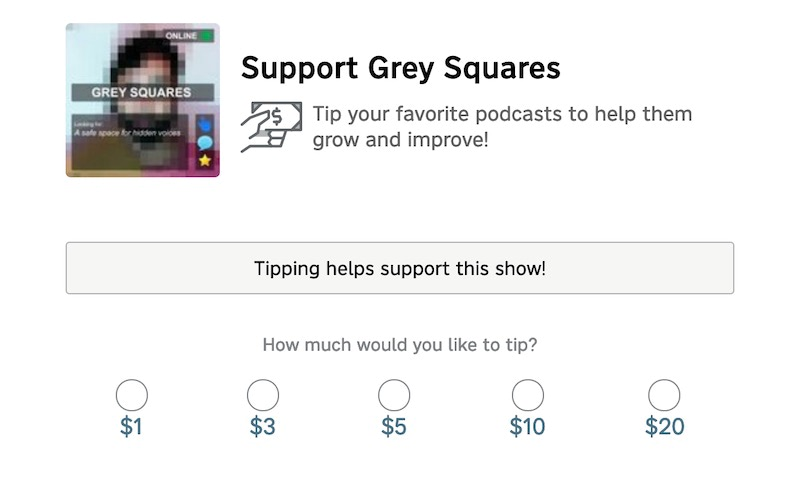
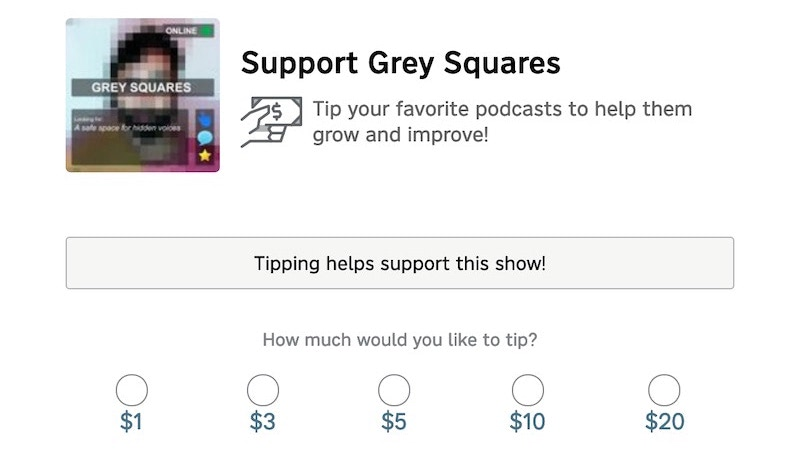
Squish more images

diff --git a/css/main.css b/css/main.css
@@ -922,7 +922,7 @@ a {
 }
 .feature-list--feature .feature-list--screenshot {
   border-radius: 4px;
-  height: 240px;
+  height: 230px;
   margin-bottom: 20px;
   max-width: calc(100vw - 24px);
   overflow: hidden;
